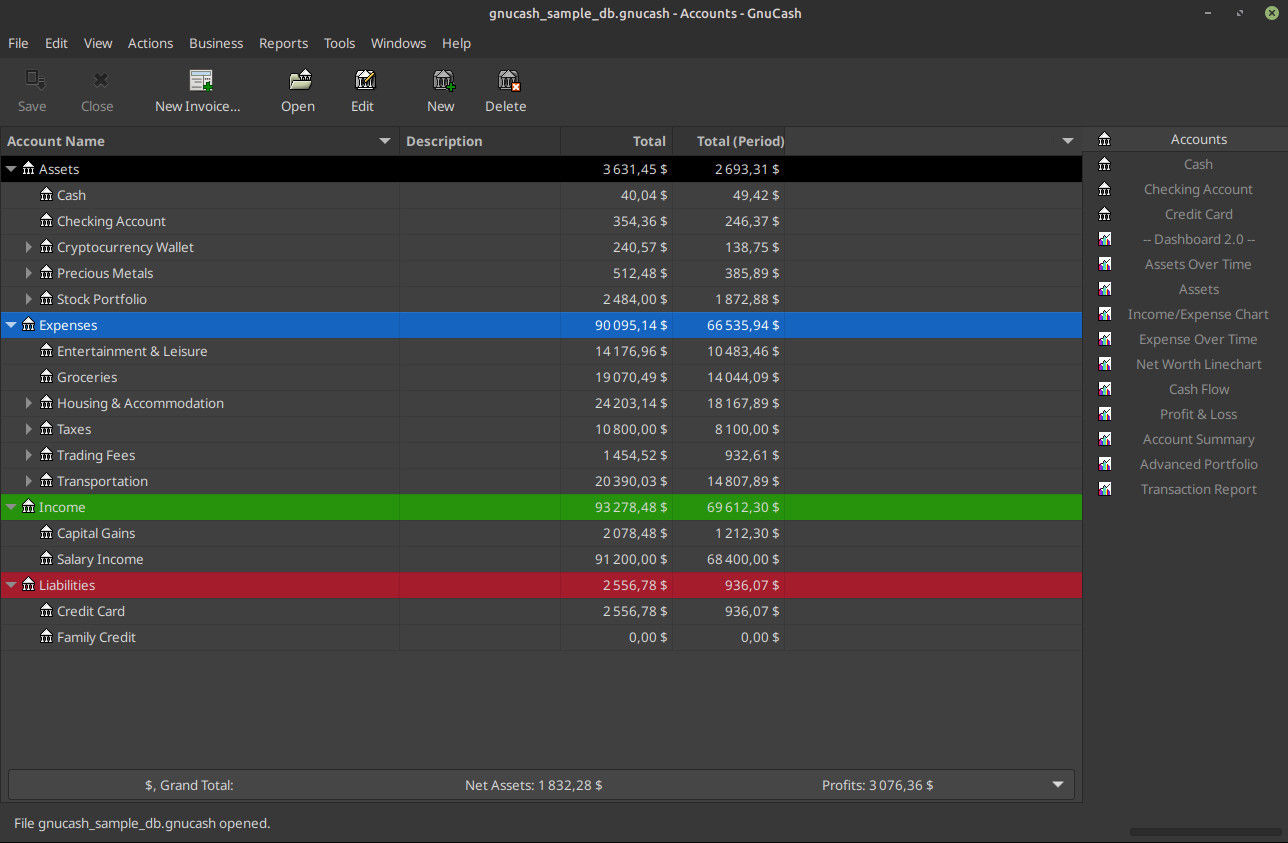
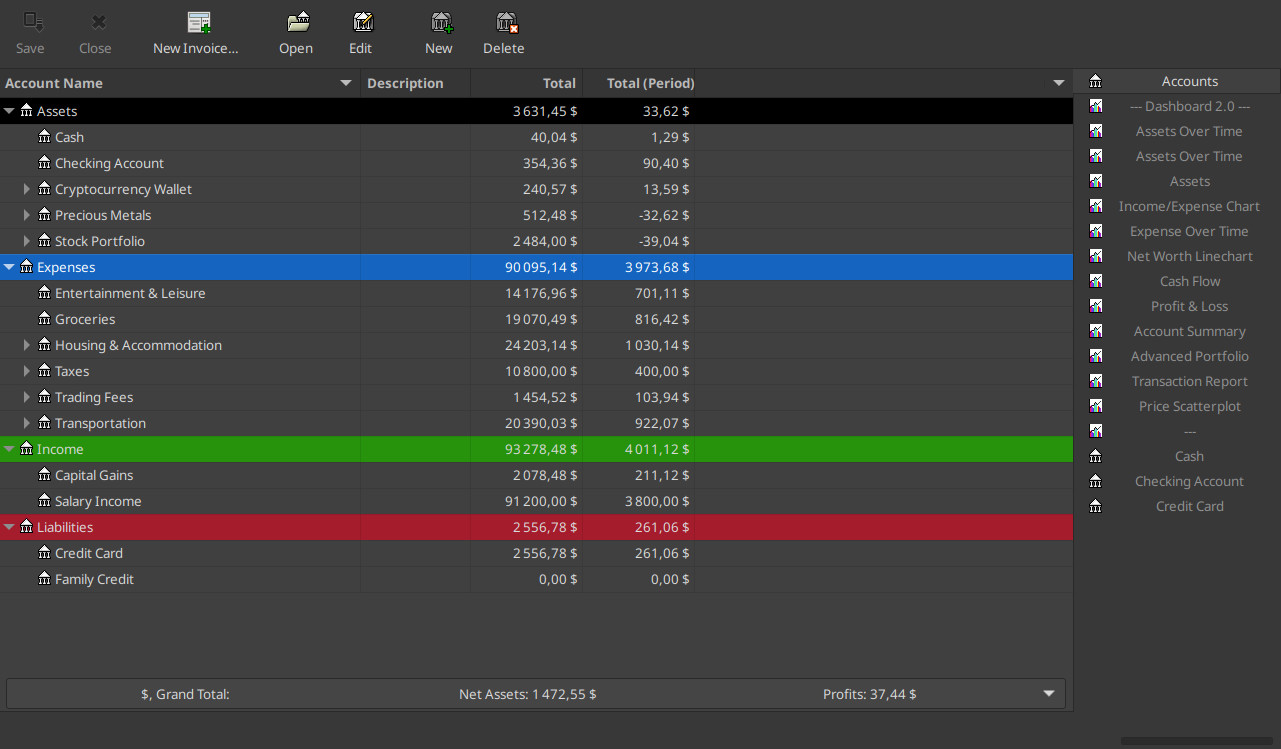
Tweaks and updates (more charts)

diff --git a/README.md b/README.md
@@ -2,7 +2,7 @@
 GnuCash - Sample Database Generator
 
 
-I never could find a proper GnuCash sample database to play with. Now you can generate your own one with this tool in no time. It's not perfect, but good enough. A sample database (1-JAN-2023 -> 31-DEC-2026) + premade-settings/reports (GCM) included. (see: EXTRAS)
+I never could find a proper GnuCash sample database to play with. Now, you can generate your own with this tool in no time. It's not perfect, but good enough. A sample database (1-JAN-2023 -> 31-DEC-2026) + premade-settings/reports (GCM) included. (see: EXTRAS)
 
 ##
 
@@ -27,7 +27,7 @@ I never could find a proper GnuCash sample database to play with. Now you can ge
 
 --- TWEAKS:
 
-By default, the generator is set to USD and starts as of 1-JAN-2023 (WARNING: if your default currency is different, reports won't show anything until you change the commodity in the report's settings / properties). If you're looking for something different, edit the generator's code lines:
+By default, the generator is set to USD and starts as of 1-JAN-2023 (WARNING: if your default currency is different, reports won't show anything until you change the commodity in the report's settings / properties). If you're looking for something else, edit the generator's code lines:
 
     start_year=2023
     default_currency="USD"
@@ -40,13 +40,14 @@ By default, the generator is set to USD and starts as of 1-JAN-2023 (WARNING: if
 A sample database has been included (2023++). The GCM file provides already pre-configured reports.
 
 - copy the GCM file to "GNC_DATA_HOME\books" directory (run GnuCash and click: HELP -> ABOUT -> GNC_CONFIG_HOME to see where it's at) then open the sample database with the same name as the file.
-- !!! set the proper period (a must); run GnuCash then go to: EDIT -> PREFERENCES -> Accounting Period and set it accordingly to available data (between 2023-JAN and 2026-DEC). I'd advise to start with 2025-JAN-1 <-> 2025-DEC-31). Some reports have already preconfigured date to look better.
+- !!! set the proper period (a must); run GnuCash then go to: EDIT -> PREFERENCES -> Accounting Period and set it accordingly to available data (between 2023-JAN and 2026-DEC). I'd advise to start with 2025-JAN-1 <-> 2025-DEC-31). Some reports have already preconfigured date to look better out of the box.
 
 
  ##
  --- SCREENSHOTS:
 
  ![Alt text](https://github.com/PRG-112/gnucash-sample-db-generator/blob/main/screenshots/screenshot_sample_db_assets.jpg "ASSETS")
+ ![Alt text](https://github.com/PRG-112/gnucash-sample-db-generator/blob/main/screenshots/screenshot_sample_db_assets_2.jpg "ASSETS")
  ![Alt text](https://github.com/PRG-112/gnucash-sample-db-generator/blob/main/screenshots/screenshot_sample_db_expenses.jpg "EXPENSES")
  ![Alt text](https://github.com/PRG-112/gnucash-sample-db-generator/blob/main/screenshots/screenshot_sample_db_dashboard.jpg "Newly written DASHBOARD (v2)")
  ![Alt text](https://github.com/PRG-112/gnucash-sample-db-generator/blob/main/screenshots/screenshot_sample_db_accounts.jpg "Accounts")
